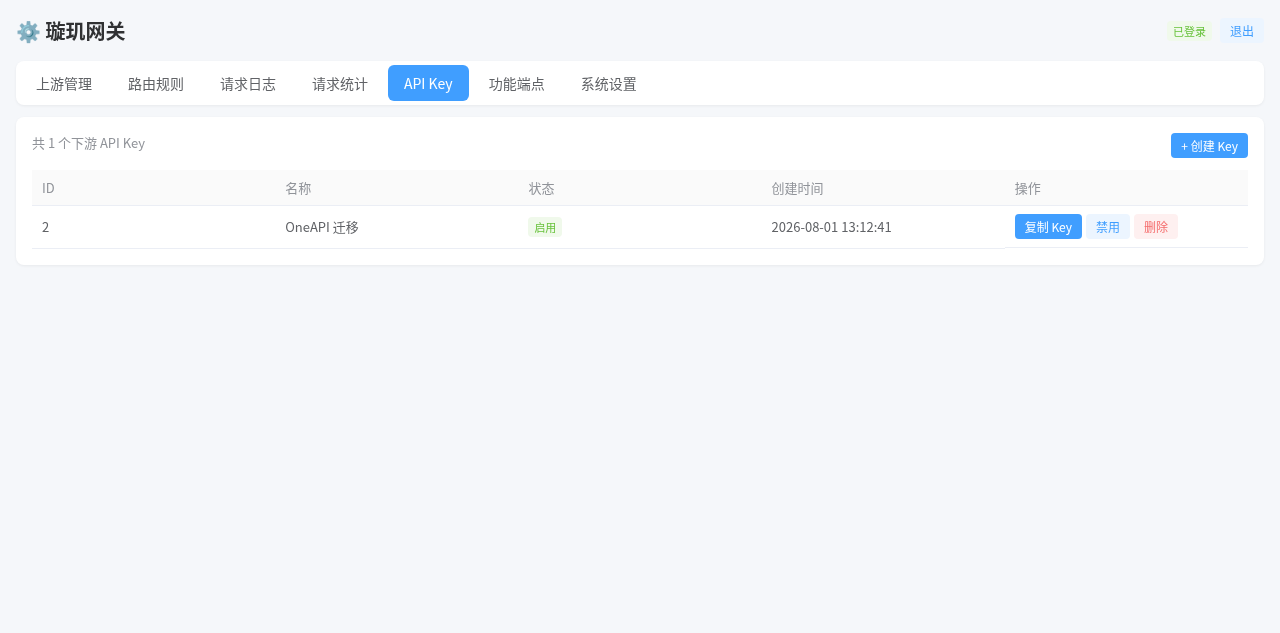
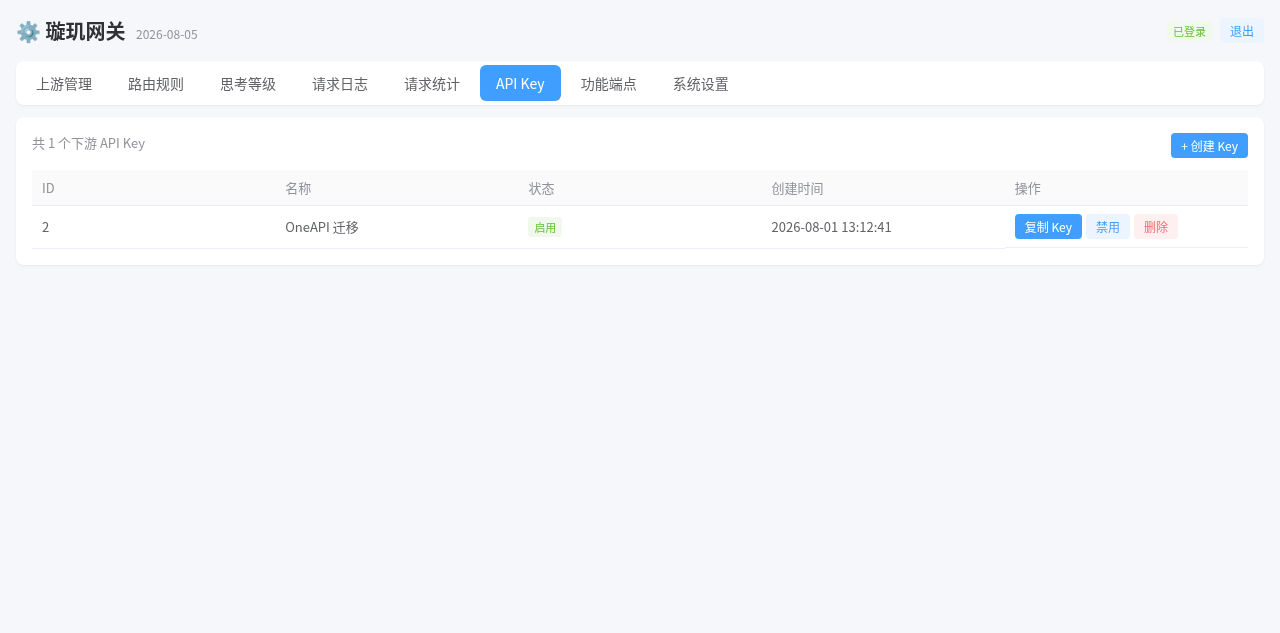
docs: 更新截图，README 新增思考等级/系统设置/模型饼图描述；前端加宽饼图容器

diff --git a/cmd/server/web/admin_vue.html b/cmd/server/web/admin_vue.html
@@ -263,12 +263,21 @@ tr:hover td { background:#f5f7fa; }
     </table>
     <div style="margin-top:24px;margin-bottom:12px;color:#909399;font-size:13px">每 API Key {{ metricsRangeLabel }}统计（区分各 AI 程序/客户端用量）</div>
     <table><thead><tr><th>API Key 名称</th><th>请求数</th><th>成功</th><th>失败</th><th>请求成功率</th><th>延迟(ms)</th><th>Tokens</th></tr></thead>
-      <tbody><tr v-for="s in apiKeyStats">
-        <td>{{ s.name }}</td>
-        <td>{{ s.requests }}</td><td>{{ s.successes }}</td><td>{{ s.requests - s.successes }}</td>
-        <td>{{ s.requests > 0 ? fmtNum(s.successes/s.requests*100, 1)+'%' : '-' }}</td><td>{{ s.avg_latency_ms ? fmtNum(s.avg_latency_ms, 0) : '-' }}</td>
-        <td><span :title="'精确值: ' + (s.total_tokens || 0)">{{ fmtTokens(s.total_tokens) }}</span></td>
-      </tr></tbody>
+      <tbody>
+        <template v-for="s in apiKeyStats">
+          <tr @click="expandAPIKey(s.name)" style="cursor:pointer" :title="expandedAPIKey === s.name ? '点击收起' : '点击展开模型分布'">
+            <td>{{ s.name }}{{ expandedAPIKey === s.name ? ' ▼' : ' ▶' }}</td>
+            <td>{{ s.requests }}</td><td>{{ s.successes }}</td><td>{{ s.requests - s.successes }}</td>
+            <td>{{ s.requests > 0 ? fmtNum(s.successes/s.requests*100, 1)+'%' : '-' }}</td><td>{{ s.avg_latency_ms ? fmtNum(s.avg_latency_ms, 0) : '-' }}</td>
+            <td><span :title="'精确值: ' + (s.total_tokens || 0)">{{ fmtTokens(s.total_tokens) }}</span></td>
+          </tr>
+          <tr v-show="expandedAPIKey === s.name"><td colspan="7" style="padding:12px;text-align:center">
+            <div v-if="!apiKeyModels[s.name]">加载中…</div>
+            <div v-else-if="apiKeyModels[s.name].length === 0">该 API Key 暂无模型使用记录</div>
+            <canvas v-else :id="'pie-' + s.name.replace(/[^a-zA-Z0-9\u4e00-\u9fff]/g, '_')" :width="pieWidth" :height="pieHeight" style="display:inline-block;max-width:100%"></canvas>
+          </td></tr>
+        </template>
+      </tbody>
     </table>
   </div>
 
@@ -553,10 +562,10 @@ new Vue({
     summary: {},
     upstreamStats: [],
     apiKeyStats:     [],
-    // 模型饼图展开：当前展开的 API Key 名称；null = 无
     expandedAPIKey:  null,
-    // 各 API Key 的模型分布缓存：{ "OneAPI 迁移": [{model,count}, ...] }
-    apiKeyModels:    {},
+        apiKeyModels:    {},
+    pieWidth:  420,
+    pieHeight: 240,
     dailyStats: [],
     apiKeys: [],
     configArr: [],
@@ -730,6 +739,78 @@ new Vue({
         result += ch;
       }
       return result;
+    },
+    // 展开/收起指定 API Key 的模型分布饼图
+    expandAPIKey: function(key) {
+      if (this.expandedAPIKey === key) {
+        this.expandedAPIKey = null
+        return
+      }
+      var self = this
+      this.expandedAPIKey = key
+      if (self.apiKeyModels[key]) {
+        self.$nextTick(function() { self.drawModelPie() })
+        return
+      }
+      // 用 fetch 直接请求（不依赖异步加载的 axios，避免"加载中"卡死）
+      var modelsUrl = '/admin/metrics/keys/' + encodeURIComponent(key) + '/models?range=' + self.metricsRange;
+      var xhr = new XMLHttpRequest();
+      xhr.open('GET', modelsUrl, true);
+      xhr.setRequestHeader('Authorization', 'Bearer ' + self.token);
+      xhr.responseType = 'json';
+      xhr.onload = function() {
+        self.$set(self.apiKeyModels, key, xhr.response || []);
+        self.$nextTick(function() { self.drawModelPie() });
+      };
+      xhr.onerror = function() { self.$set(self.apiKeyModels, key, []) };
+      xhr.send();
+    },
+    // 绘制模型分布饼图（canvas）
+    drawModelPie: function() {
+      var self = this
+      var apiKey = self.expandedAPIKey
+      if (!apiKey) return
+      var data = self.apiKeyModels[apiKey]
+      if (!data || !data.length) return
+      var canvas = document.getElementById('pie-' + apiKey.replace(/[^a-zA-Z0-9\u4e00-\u9fff]/g, '_'))
+      if (!canvas) return
+      var ctx = canvas.getContext('2d')
+      var dpr = window.devicePixelRatio || 1
+      var W = self.pieWidth, H = self.pieHeight
+      canvas.width = W * dpr; canvas.height = H * dpr
+      ctx.scale(dpr, dpr)
+      ctx.clearRect(0, 0, W, H)
+      var total = 0
+      for (var i = 0; i < data.length; i++) total += data[i].count
+      if (total <= 0) return
+      var cx = W / 2 - 60, cy = H / 2, R = 70
+      var colors = ['#3366cc', '#dc3912', '#ff9900', '#109618', '#990099', '#0099c6', '#dd4477', '#66aa00', '#ff6688', '#33c4bd', '#44b983', '#e6194b', '#f58231', '#911eb4', '#a6d854']
+      var start = -Math.PI / 2
+      for (var i = 0; i < data.length; i++) {
+        var p = data[i].count / total
+        var ang = start + p * 2 * Math.PI
+        ctx.beginPath(); ctx.moveTo(cx, cy)
+        ctx.arc(cx, cy, R, start, ang)
+        ctx.closePath(); ctx.fillStyle = colors[i % colors.length]; ctx.fill()
+        if (p >= 0.04) {
+          var mid = start + p * Math.PI
+          var tx = cx + Math.cos(mid) * (R + 22), ty = cy + Math.sin(mid) * (R + 22)
+          ctx.fillStyle = '#333'; ctx.font = '11px sans-serif'; ctx.textBaseline = 'middle'
+          var label = data[i].model.length > 20 ? data[i].model.substring(0, 18) + '..' : data[i].model
+          ctx.fillText(label + ' ' + Math.round(p * 100) + '%', tx, ty)
+        }
+        start = ang
+      }
+      var lx = W - 90, ly = 24
+      ctx.font = '11px sans-serif'
+      for (var i = 0; i < data.length; i++) {
+        ctx.fillStyle = colors[i % colors.length]
+        ctx.fillRect(lx, ly - 4, 8, 8)
+        ctx.fillStyle = '#555'
+        var legendLabel = data[i].model.length > 28 ? data[i].model.substring(0, 26) + '..' : data[i].model
+        ctx.fillText(legendLabel, lx + 12, ly + 1)
+        ly += 16
+      }
     },
     toggleUpstream: function(u) {
       var self = this;

diff --git a/README.md b/README.md
@@ -92,31 +92,43 @@
 <p align="center">
   <img src="docs/screenshots/dashboard.png" alt="统计总览" width="80%">
   <br>
-  <sub>📊 统计总览 — 实时监控每上游的健康状态、请求数、成功率、延迟、Token 消耗</sub>
+  <sub>📊 统计总览 — 总览卡片（请求数/成功率/Tokens/延迟）+ 每日 Token 趋势折线图 + 每上游请求数/成功率/延迟/Tokens 明细 + 每 API Key 用量统计，点击展开行可看该 Key 使用的模型分布饼图</sub>
 </p>
 
 <p align="center">
   <img src="docs/screenshots/upstreams.png" alt="上游管理" width="80%">
   <br>
-  <sub>⚙ 上游管理 — 添加/编辑上游渠道，配置权重、层级、模型映射，自动保存</sub>
+  <sub>⚙ 上游管理 — 添加/编辑/克隆/删除上游渠道，配置计费层级（免费/包月/按量）、权重、模型映射，健康检查三态（正常/降级/不可用）</sub>
 </p>
 
 <p align="center">
   <img src="docs/screenshots/routing.png" alt="路由规则" width="80%">
   <br>
-  <sub>🔄 路由规则 — 每个模型绑定多个上游，网关自动分流、负载、重试</sub>
+  <sub>🔄 路由规则 — 模型名支持通配符（如 `deepseek-*`），每规则绑定一组上游，网关自动分流、负载、重试</sub>
+</p>
+
+<p align="center">
+  <img src="docs/screenshots/effort.png" alt="思考等级" width="80%">
+  <br>
+  <sub>🧠 思考等级 — 管理每个模型的最佳 `reasoning_effort` 推荐值，支持模型通配符，配合系统设置"自动推荐"和"强制覆盖"开关</sub>
 </p>
 
 <p align="center">
   <img src="docs/screenshots/api-keys.png" alt="API Key 管理" width="80%">
   <br>
-  <sub>🔑 API Key 管理 — 创建下游 key，控制访问权限</sub>
+  <sub>🔑 API Key 管理 — 创建/禁用/删除下游 key，复制 key 供客户端使用</sub>
+</p>
+
+<p align="center">
+  <img src="docs/screenshots/settings.png" alt="系统设置" width="80%">
+  <br>
+  <sub>⚙ 系统设置 — 账号安全、思考等级自动推荐/强制覆盖开关、视频透传开关、重试策略（熔断时长/探测间隔/超时/重试状态码/关键词）、渠道优惠时段配置</sub>
 </p>
 
 ### 📊 可观测性
 
 - 请求日志：东八区时间、筛选、分页
-- 请求统计：今日 / 3天 / 7天 / 30天 / 全部 五个维度，每上游请求数、延迟、成功率、Token 总量
+- 请求统计：今日 / 3天 / 7天 / 30天 / 全部 五个维度，每上游请求数、延迟、成功率、Token 总量；每 API Key 用量统计（点击展开行查看该 Key 的模型分布饼图，区分不同 AI 程序用的模型）
 - **Token 计数**：流式响应注入 `stream_options.include_usage` 并逐 chunk 解析，非流式回退 tiktoken 估算
 
 ### 🧠 思考深度归一化（Thinking Effort 协议翻译）
